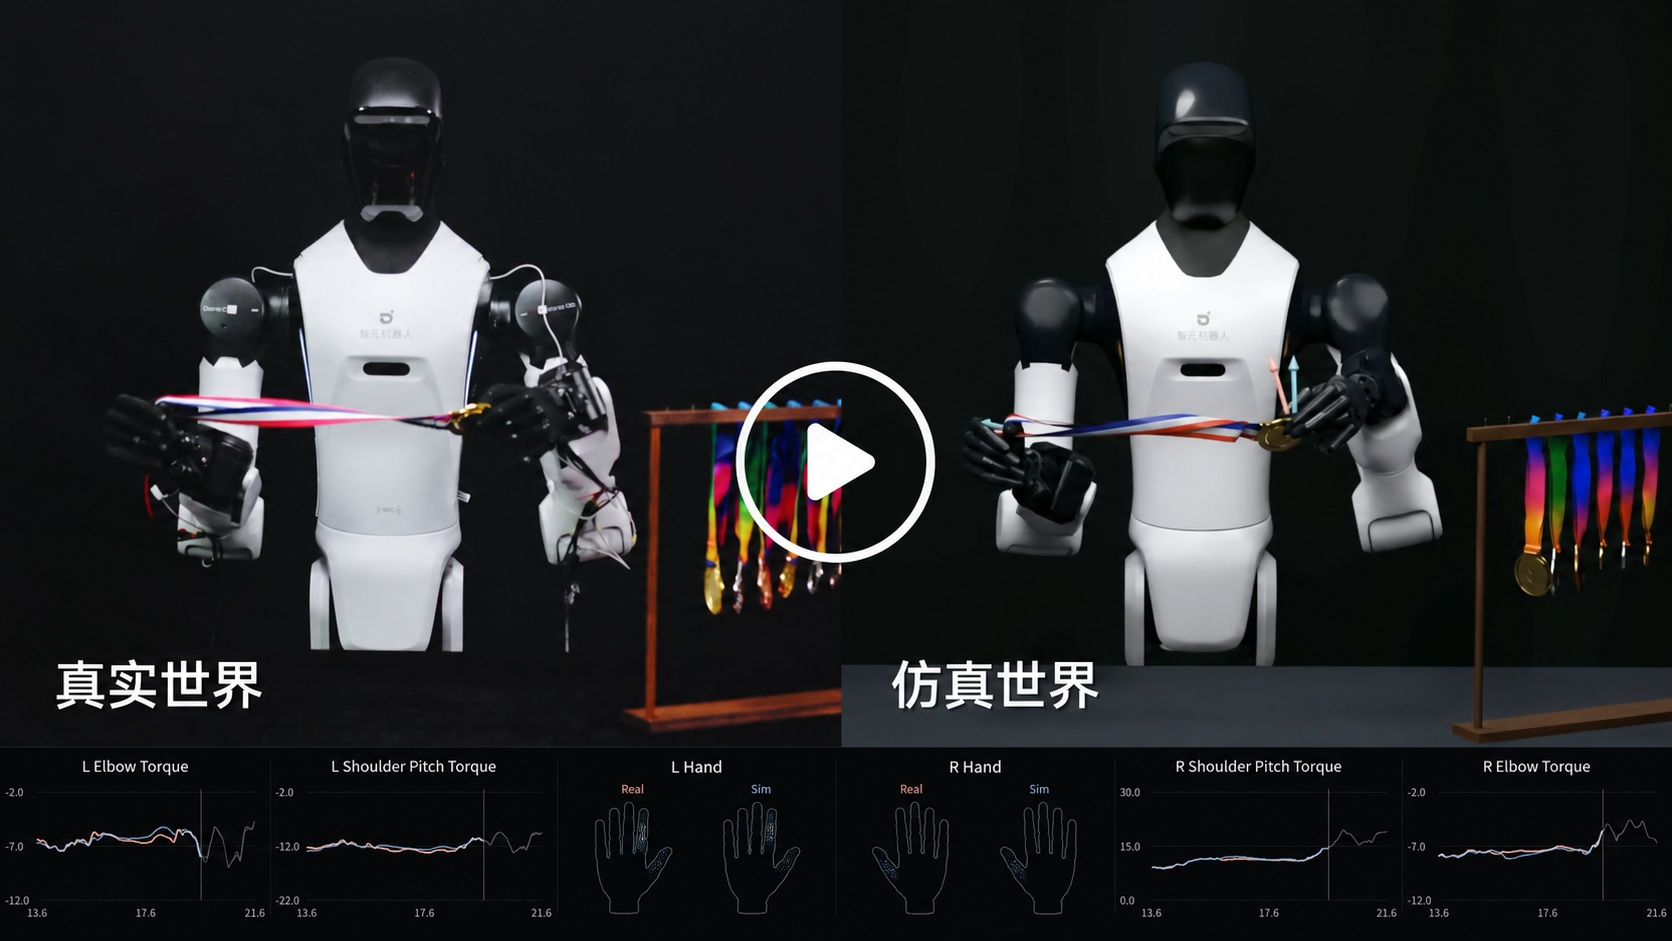
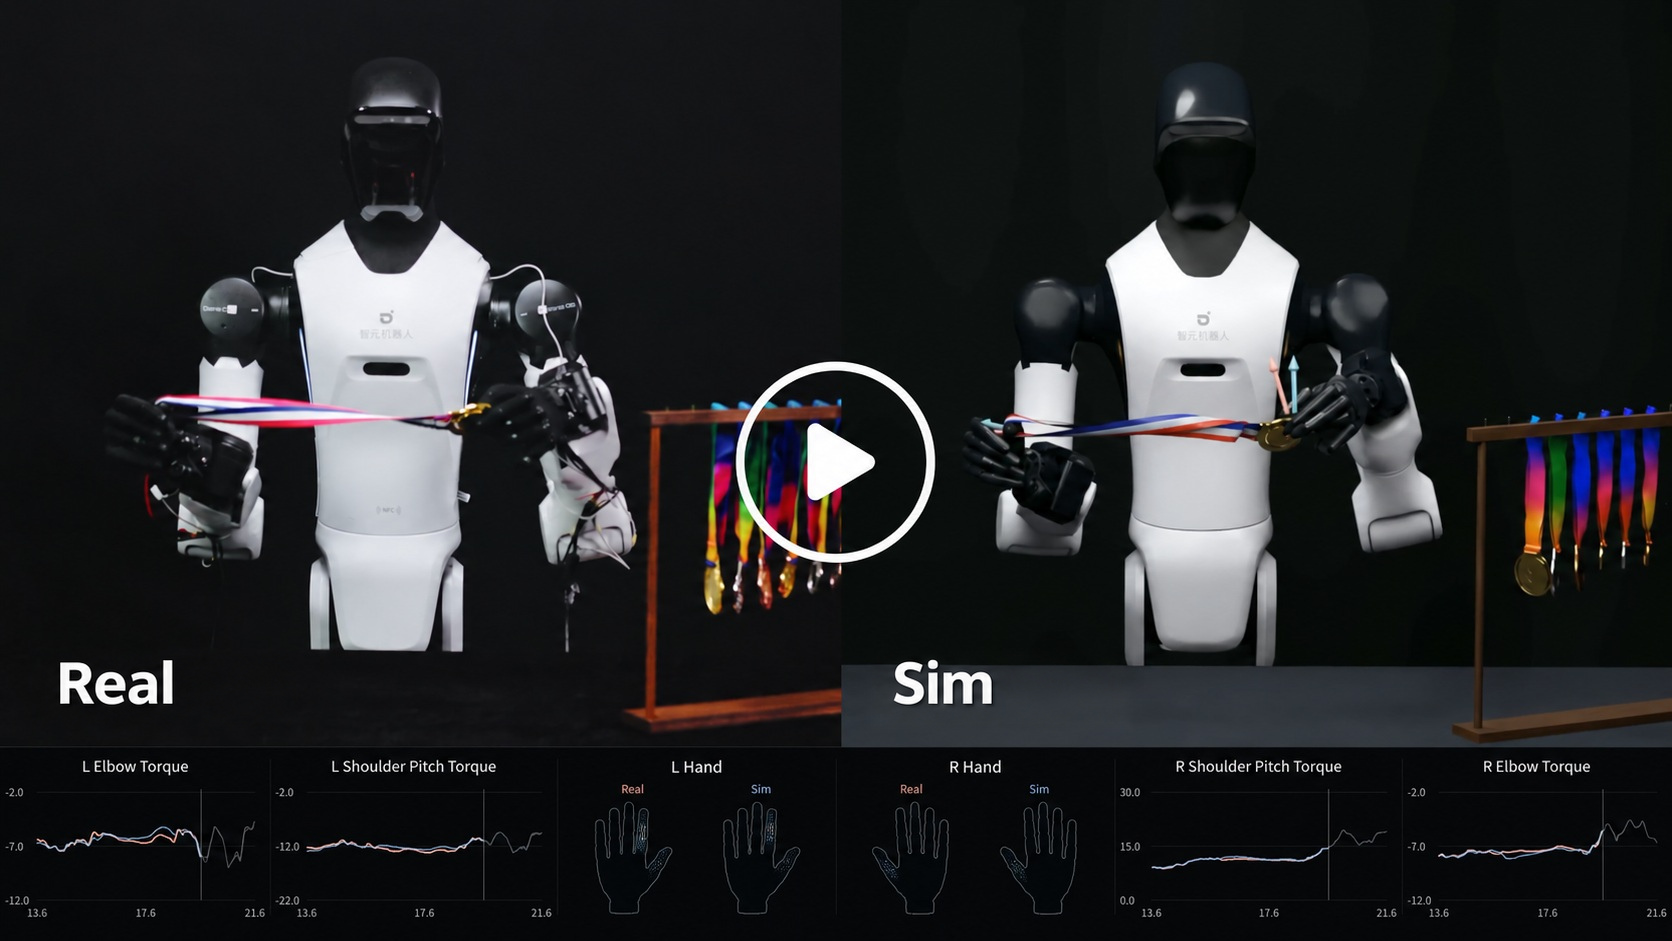
docs: publish Genie Sim 3.5 benchmark release notes

Changed region(s): [[0.5287, 0.678, 0.6531, 0.7705], [0.0311, 0.678, 0.1555, 0.7705]]

diff --git a/README.md b/README.md
@@ -1,7 +1,4 @@
-<h2 align="center">🚀 Genie Sim · Next Major Update</h2>
-<p align="center"><strong>COMING NOVEMBER 2, 2026</strong></p>
-
-![image.png](./docs/image.png)
+![Genie Sim](./docs/banner.webp)
 
 <div align="center">
   <div align="center">
@@ -27,6 +24,12 @@
 </div>
 
 # 1. 🌍 Genie Sim
+
+**3.5.0 focuses on Genie Sim Benchmark**, using the `geniesim3:latest` combo
+image with bundled Isaac Sim **5.1** and system-Python Isaac Sim **6.2**.
+`geniesim docker` selects this combo. The dedicated Isaac Sim 6.2 image,
+`geniesim4:latest` via `geniesim docker6.2`, belongs to the separate **4.0**
+line. See [release lines and runtime selection](docker/README.md#release-lines).
 
 **Genie Sim is the simulation platform from AgiBot.** It provides developers with a complete toolchain for *environment reconstruction*, *scene generalization*, *data collection*, and *automated evaluation*. Its core module, **Genie Sim Benchmark** is a standardized tool dedicated to establishing the most accurate and authoritative evaluation for embodied intelligence.
 
@@ -64,7 +67,7 @@ flowchart LR
 ```bash
 # === on the host ===
 pip install -e source/geniesim_cli/      # standalone CLI wheel
-geniesim docker build                    # build the Isaac Sim 5.1 + Jazzy image
+geniesim docker build                    # build the Isaac Sim 5.1 + 6.2 combo + Jazzy image
 geniesim docker up                       # boot the container; the entrypoint
                                          # editable-installs every tier-1 from
                                          # the bind-mounted workspace
@@ -300,31 +303,45 @@ flowchart LR
   v30["<b>v3.0 · Jan 2026</b><br/>Isaac Sim 5.1<br/>Genie G2 · 3DGS"]
   v31["<b>v3.1 · Apr 2026</b><br/>Genie Sim World<br/>RLinf"]
   v32["<b>v3.2 · Jun 2026</b><br/>🧞 CLI · 🤖 SKILLs<br/>⚡ RT Engine"]
-  next["<b>Next</b><br/>Isaac Sim 6.0<br/>More Newton solvers<br/>Benchmark refactor"]
-  v2 --> v30 --> v31 --> v32 --> next
+  v35["<b>v3.5.0 · Nov 2, 2026</b><br/>Benchmark-focused release<br/>Isaac Sim 5.1 + 6.2 combo"]
+  next["<b>v4.0 line</b><br/>Dedicated Isaac Sim 6.2<br/>RT Engine qualification"]
+  v2 --> v30 --> v31 --> v32 --> v35 --> next
 
   classDef done fill:#d1f0d8,stroke:#1f6f3d,color:#0b3b1f
   classDef current fill:#cfe2ff,stroke:#084298,color:#084298,stroke-width:2px
   classDef future fill:#fff3cd,stroke:#856404,color:#5c4400
-  class v2,v30,v31 done
-  class v32 current
+  class v2,v30,v31,v32 done
+  class v35 current
   class next future
 ```
 
 ## 🎯 Next
 
 - [ ] Upload all assets and dataset on Huggingface
-- [ ] More benchmark task suites — deformable / soft-material manipulation, whole-body control (WBC), vision-language-navigation (VLN), and more
+- [ ] Extend deformable benchmark qualification and vision-language-navigation (VLN) task coverage
 - [ ] Support more tasks and larger models for RLinf
 - [ ] More Newton solvers — broaden the rigid + deformable solver in the Newton-standalone
-- [ ] Refactor `geniesim_benchmark` into a benchmark **layer on top of `geniesim_ros`** (collapses the two parallel stacks — see [`.agent/geniesim_benchmark.md`](.agent/geniesim_benchmark.md))
+- [ ] Continue moving benchmark execution onto the RT Engine client interfaces — see [`.agent/geniesim_benchmark.md`](.agent/geniesim_benchmark.md)
 - [ ] Data recorder improvements (today: `ros2 bag` via the [`record-episode`](source/geniesim_ros/skills/record-episode/SKILL.md) SKILL)
 - [ ] Wire `geniesim_world` outputs into the RT Engine (load `.ply` / `.gsp` Gaussians from a `scene_*.yaml`)
-- [ ] Isaac Sim 6.0
+- [ ] Expand Isaac Sim 6.2 backend and scene qualification
 
 ## 📜 Release log
 
-<details open><summary><b>[6/25/2026] v3.2.0 — Genie Sim RT Engine + Agentic CLI/SKILLs</b></summary>
+<details open><summary><b>[11/2/2026] v3.5.0 — Benchmark release with the Isaac Sim 5.1 + 6.2 combo</b></summary>
+
+- 🧪 **Extended benchmark suites** — fine manipulation, dexterous manipulation, whole-body coordination, and cross-embodiment tasks, plus 25 unscored open-world sandbox scenarios.
+- ⚙ **Task-selected runtimes** — direct Isaac evaluation, managed Newton wok evaluation, and native MuJoCo Rubik execution with separate observation rendering.
+- 🐳 **Benchmark combo runtime** — `geniesim3:latest` retains bundled Isaac Sim 5.1 and the system-Python Isaac Sim 6.2 co-install. Each benchmark entry selects its runtime. The dedicated `geniesim4:latest` image remains on the separate 4.0 line.
+- 🌙 **Genie Sim Dream** — G1/G2 world-model inference, policy integration, visual evaluation, and a browser UI in dedicated environments.
+- 📥 **Collection and post-training workflows** — independent Isaac Sim 5.1/cuRobo v2 collection and replay, scene-agent authoring workflows, and RLinf server/client integration.
+- 🔖 **Checkout package version** — all eight first-class Genie Sim distributions and owned ROS package metadata in this release checkout share `VERSION=3.5.0`. This package version does not relabel the dedicated 4.0 image line. Dependencies, recording formats, and independently maintained modules keep their own versions.
+
+See the [module index](source/README.md) and [benchmark task suites](docs/benchmark-task-suites.md) for workflow details.
+
+</details>
+
+<details><summary><b>[6/25/2026] v3.2.0 — Genie Sim RT Engine + Agentic CLI/SKILLs</b></summary>
 
 - 🏆 **RoboColiseum** — opened [RoboColiseum](https://robocoliseum.ai/): submit a policy and get it scored on the official leaderboard. Added a new `spatial` board (alongside `instruction` / `robust` / `manip`), and the `robust` board now aggregates and scores tasks per perturbation type (instruction, robot pose, background, image quality, camera position). The full pipeline — download datasets, fetch baseline weights, run an example leaderboard service, submit & track — ships as agent-friendly one-click SKILLs under [`source/geniesim_benchmark/skills/robocoliseum/`](source/geniesim_benchmark/skills/robocoliseum/).
 - 🧞 **`geniesim` CLI** — one command for docker, ROS 2 builds, `bootstrap`, `status`, `doctor`, `deploy`; bash/zsh completion; standalone PEP 517 / PEP 621 wheel.
